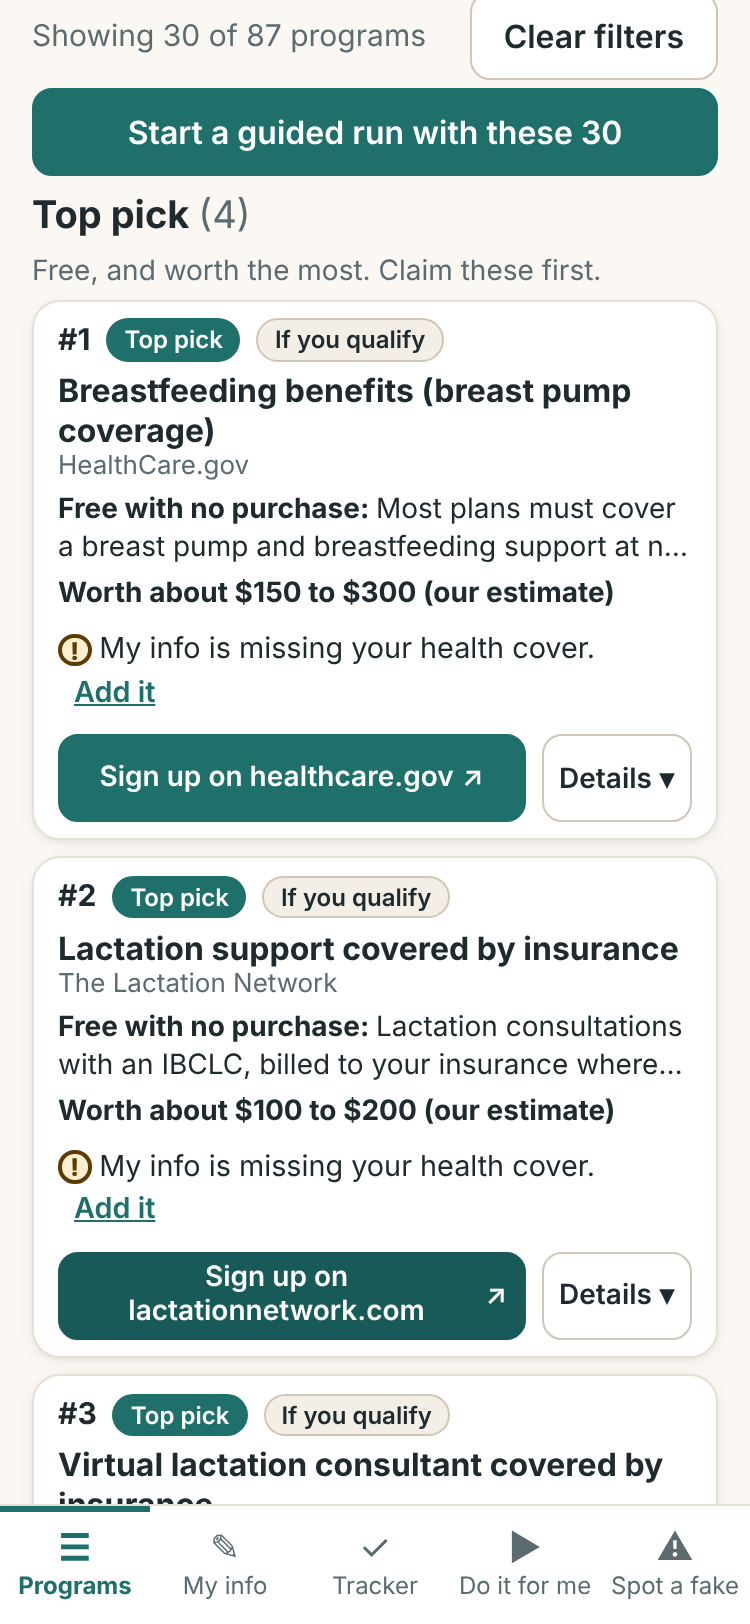
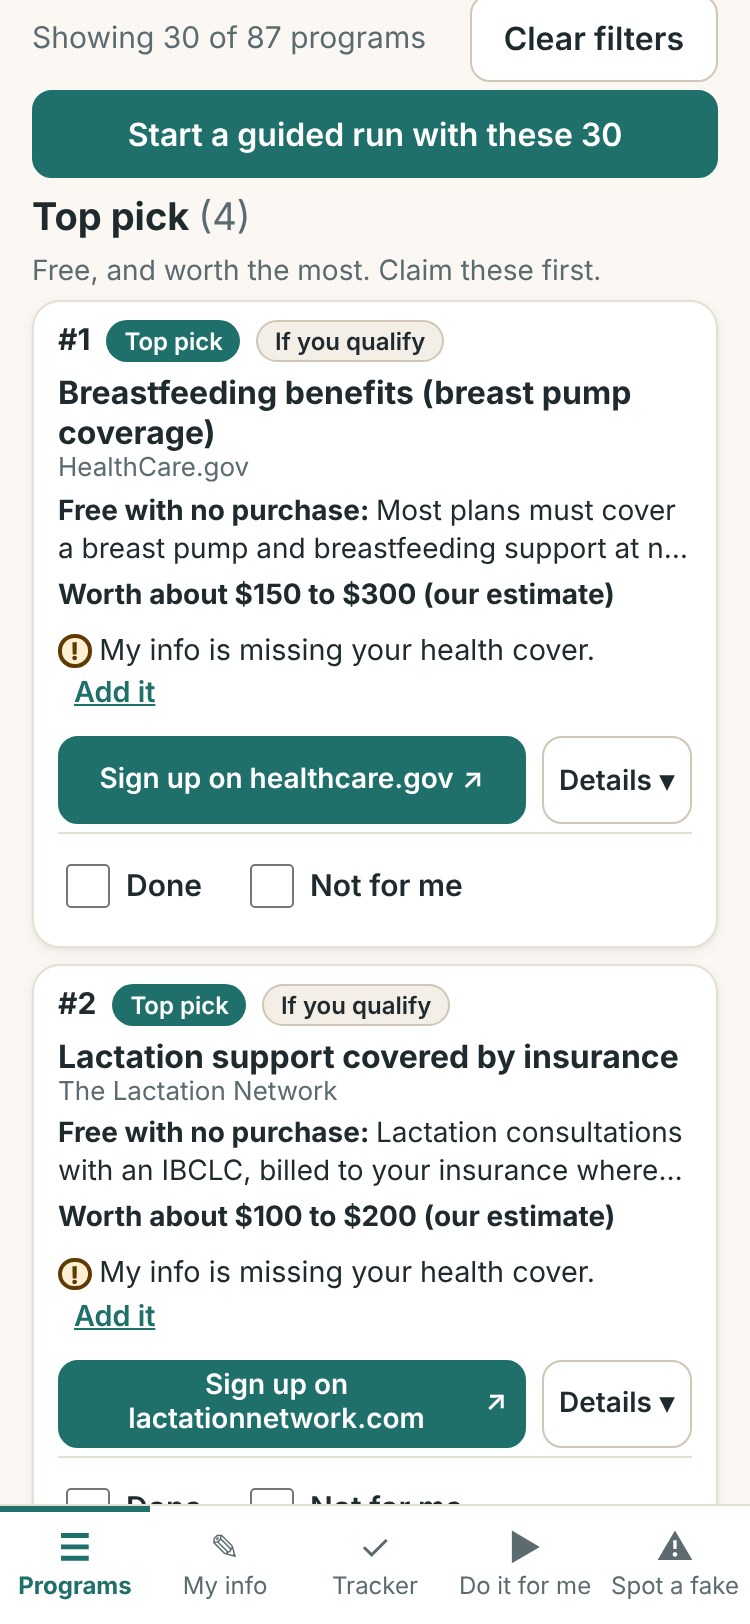
Phase J docs: new screenshots, tick boxes and hidden box in the README, progress log
- Retake six phone screenshots against the Phase J build and add
  hidden-and-ticks.png (the "Hidden from this list" box and a ticked card).
- README: describe the Done / Received / Not for me tick boxes, the hidden
  box, the storage notice and true undo; update the picture alt texts.
- PROGRESS.md: Phase J section, the Phase I browser-suite figure and the
  reload finding, and what still needs a person.
- ARCHITECTURE.md: the card tick hooks and the onChange payload.

Claude-Session: https://claude.ai/code/session_0129JtExaFfqidfghtzEj3gZ

diff --git a/README.md b/README.md
@@ -5,22 +5,23 @@ Baby Freebies Finder is a page you can use on a phone or computer to find legiti
 ## Screenshots
 
 <p align="center">
-  <img src="docs/screenshots/programs.png" alt="The Programs view on a phone: the Free stuff tab, the summary, and a box saying which My info answers are missing and how many programs depend on each" width="240">
-  <img src="docs/screenshots/missing-info.png" alt="Program cards on a phone, each saying which My info answer it is waiting for, with an Add it link" width="240">
+  <img src="docs/screenshots/programs.png" alt="The Programs view on a phone: the Free stuff tab, the summary, a box saying which My info answers are missing and how many programs depend on each, and the start of the Hidden from this list box" width="240">
+  <img src="docs/screenshots/missing-info.png" alt="Program cards on a phone under the Care and cover tab, each saying which My info answer it is waiting for, with an Add it link" width="240">
+  <img src="docs/screenshots/hidden-and-ticks.png" alt="The Programs view on a phone with the Hidden from this list box open, showing 61 hidden programs by reason with a Show button for each, and below it a card ticked Done with a note that it will be hidden from the list" width="240">
   <img src="docs/screenshots/my-info-jump.png" alt="My info on a phone after tapping an Add it link: the Health cover question is highlighted, says how many programs depend on it, and has a Back to Programs link" width="240">
   <img src="docs/screenshots/tracker.png" alt="The top of the Tracker on a phone: how many programs are done, what is still to claim, a note that My info is missing details, three closed sections, and tabs for To do, Signed up, Received, Not for me and All" width="240">
-  <img src="docs/screenshots/tracker-list.png" alt="The Tracker's To do tab on a phone: the Do now list with a Do these with help button and short rows, each saying which My info answer it is waiting for, with a Sign up link and tick boxes for Done and Not for me" width="240">
-  <img src="docs/screenshots/guided.png" alt="The Do it for me view on a phone, showing an open sign-up page button and a set of details to copy" width="240">
+  <img src="docs/screenshots/tracker-list.png" alt="The Tracker's To do tab on a phone: the Do now list with a Do these with help button and short rows, with a Sign up link and tick boxes for Done and Not for me, and a first row ticked Done that shows a Received box and a note saying where it is listed now" width="240">
+  <img src="docs/screenshots/guided.png" alt="The Do it for me view on a phone, showing an open sign-up page button, a set of details to copy, and the Done, Not for me and Problem buttons" width="240">
   <img src="docs/screenshots/tracker-email.png" alt="The Tracker's Email and calendar section opened on a phone, with buttons for the checklist email, Gmail filters and calendar reminders" width="240">
   <img src="docs/screenshots/my-info-situation.png" alt="The Your situation questions in My info on a phone, each unanswered one saying how many programs depend on it" width="240">
-  <img src="docs/screenshots/programs-dark.png" alt="The Programs view in dark mode on a phone" width="240">
+  <img src="docs/screenshots/programs-dark.png" alt="The Programs view in dark mode on a phone, with the first cards showing their Done and Not for me tick boxes" width="240">
 </p>
 
 ## What's inside
 
-- **Programs:** the full directory, ranked by what it is worth. The page opens on the **Free stuff** tab. Other tabs are **Money**, **Care and cover** and **All**. A summary shows how many truly free programs are open to everyone, about what they are worth together, and how many more are free if you qualify. Use **Show these** to see just the truly free ones. Search sits above the tabs. Under **Sort and filter** you can sort, filter by "What you get" or category, and tick "Truly free", "Open to everyone", "Email only", "Needs a registry" or "Fits my answers". Each card is short: it shows what arrives free, the estimated value, a badge for how sure it is, and the sign-up link. Press **Details** for the rest, such as the effort, the best time, the catches and the sources. Each card also has two tick boxes, **Done** and **Not for me**. Tick one and the card folds to a single line that says what happened and how to undo it, and the program is hidden the next time the list is drawn. A **Hidden from this list** box under the filters says how many programs are hidden and why: programs for other states, ones your answers in My info rule out, ones you marked done, ones you marked not for me, and other ways to get something you already signed up for. Each line has a **Show** button, and what you show is hidden again the next time you open the app. When a program depends on your state, health plan, income or job and My info does not have that answer yet, a box under the summary says which answers are missing and how many programs depend on each, and each such card says what is missing with an **Add it** link that opens My info at that field. See [How the ranking works](#how-the-ranking-works).
-- **My info:** your name, email, address, state and due date. It is stored only in your browser. Your state hides programs that are only for other states, and your due date builds the plan by due date. **Your situation (optional)** asks four quick questions: health cover, insurer, whether your household gets WIC, SNAP or similar help, and whether you or your partner have a paid job. Programs that cannot apply to your answers are hidden, and ones that fit get a badge. Each unanswered question says how many programs still to do depend on it. When you arrive from an **Add it** link, that field is highlighted and a link takes you straight back to the page you left. Your answers stay in your browser and are never used to fill in forms. Tip: use a dedicated inbox or a plus address like `yourname+baby@gmail.com`, so sign-up mail is easy to filter. At the end of My info, the **Fill forms on your phone** section (tap it to open) shows three ways to fill sign-up forms on an iPhone. See [On an iPhone](#on-an-iphone).
-- **Tracker:** your own to-do list. It leaves out programs for other states, ones your answers in My info rule out, and other ways to get something you already signed up for, and it says how many it left out (one button shows them all until you close the page). The top shows how many are done and about how much is still to claim. Tabs split the list into **To do**, **Signed up**, **Received**, **Not for me** and **All**. To do is split into **Do now**, **Later**, and a closed section for offers that need a purchase and long shots. **Do these with help** sends the Do now list to Do it for me. Each row is short: tick **Done** when you have signed up (a **Received** box then appears for when it arrives) or **Not for me** to set it aside, or press **Details** for what you get, the address to sign up with and your notes. A ticked row stays where it is until the list is next drawn, with a note saying where it is listed now. A to-do row also says which My info answer it is waiting for. **Email and calendar**, **Check Gmail for sign-up emails** and **Backup and restore** are closed sections under the summary; tap one to open it. You can download a JSON backup and restore it later. Inside Claude, checking Gmail is optional. See [Connect Gmail (inside Claude)](#connect-gmail-inside-claude).
+- **Programs:** the full directory, ranked by what it is worth. The page opens on the **Free stuff** tab. Other tabs are **Money**, **Care and cover** and **All**. A summary shows how many truly free programs are open to everyone, about what they are worth together, and how many more are free if you qualify. Use **Show these** to see just the truly free ones. Search sits above the tabs. Under **Sort and filter** you can sort, filter by "What you get" or category, and tick "Truly free", "Open to everyone", "Email only", "Needs a registry" or "Fits my answers". Each card is short: it shows what arrives free, the estimated value, a badge for how sure it is, and the sign-up link. Press **Details** for the rest, such as the effort, the best time, the catches and the sources. Each card also has tick boxes: **Done** and **Not for me**, plus **Received** once a program is done, for when it arrives. Tick one and the card folds down to its name, the tick boxes and a short note that says what happened and how to undo it, and the program is hidden the next time the list is drawn. Unticking a box you just ticked puts the program back exactly as it was. A **Hidden from this list** box under the filters says how many programs are hidden and why: programs for other states, ones your answers in My info rule out, ones you marked done, ones you marked not for me, and other ways to get something you already signed up for. Each line has a **Show** button, and what you show is hidden again the next time you open the app. The numbers in the box count every tab and ignore the search and filters. If a search or filter matches only hidden programs, the page says how many and why. When a program depends on your state, health plan, income or job and My info does not have that answer yet, a box under the summary says which answers are missing and how many programs depend on each, and each such card says what is missing with an **Add it** link that opens My info at that field. See [How the ranking works](#how-the-ranking-works).
+- **My info:** your name, email, address, state and due date. It is stored only in your browser. If the browser stops saving (its storage is full or blocked), a notice appears at the top of every page, and your newest changes then last only until you close the page. Your state hides programs that are only for other states, and your due date builds the plan by due date. **Your situation (optional)** asks four quick questions: health cover, insurer, whether your household gets WIC, SNAP or similar help, and whether you or your partner have a paid job. Programs that cannot apply to your answers are hidden, and ones that fit get a badge. Each unanswered question says how many programs still to do depend on it. When you arrive from an **Add it** link, that field is highlighted and a link takes you straight back to the page you left. Your answers stay in your browser and are never used to fill in forms. Tip: use a dedicated inbox or a plus address like `yourname+baby@gmail.com`, so sign-up mail is easy to filter. At the end of My info, the **Fill forms on your phone** section (tap it to open) shows three ways to fill sign-up forms on an iPhone. See [On an iPhone](#on-an-iphone).
+- **Tracker:** your own to-do list. It leaves out programs for other states, ones your answers in My info rule out, and other ways to get something you already signed up for, and it says how many it left out (one button shows them all until you close the page). The top shows how many are done and about how much is still to claim. Tabs split the list into **To do**, **Signed up**, **Received**, **Not for me** and **All**. To do is split into **Do now**, **Later**, and a closed section for offers that need a purchase and long shots. **Do these with help** sends the Do now list to Do it for me. Each row is short: tick **Done** when you have signed up (a **Received** box then appears for when it arrives) or **Not for me** to set it aside, or press **Details** for what you get, the address to sign up with and your notes. A ticked row stays where it is until the list is next drawn, with a note saying where it is listed now. Unticking a box you just ticked puts the row back exactly as it was, with its sign-up date. A to-do row also says which My info answer it is waiting for. **Email and calendar**, **Check Gmail for sign-up emails** and **Backup and restore** are closed sections under the summary; tap one to open it. You can download a JSON backup and restore it later. Inside Claude, checking Gmail is optional. See [Connect Gmail (inside Claude)](#connect-gmail-inside-claude).
 - **Do it for me:** pick the programs you want, then go through them one at a time in ranked order. The list has one row per offer, with other ways to get the same thing folded under it, and offers that need a purchase and long shots in a closed section at the end. By default it ticks the truly free programs that are open to everyone, one per offer, and none where you already signed up. The list leaves out what the Programs page hides (programs for other states, ones your answers rule out, ones you marked done or not for me, and other ways to get something you already signed up for), and a line under it says how many were left out. A row says which My info answer it is waiting for. Each step opens the official sign-up page and gives you Copy buttons for your details. You press the buttons yourself. For each program you press **Done**, **Not for me** or **Problem**.
 - **Spot a fake:** short tips for telling real freebie offers from scams.
 

diff --git a/ARCHITECTURE.md b/ARCHITECTURE.md
@@ -410,7 +410,7 @@ Why: the Programs page was about 61,000 px tall, the top pick was a tax credit, 
 ### DOM hooks for browser tests
 - Tabs: `.kind-tabs` (role group), `button.kind-tab[data-kind="stuff|money|care|all"]` with `aria-pressed`, text "Label (n)" (`.kt-label`, `.kt-count`).
 - Filters: `details.dir-filters` (its `summary` text "Sort and filter" or "Sort and filter (n on)"), search input `input[type=search]` outside it, chip `label[data-chip="fitsMine"]`, `.chip-hint`.
-- Cards: `article.card[data-program-id]`, `.is-open` when open, `button.card-toggle[aria-expanded][aria-controls]`, `.card-more#more-<id>` (`hidden` when closed), `.card-status-badge` (hidden for To do), `.badge-certainty` with `.tag-fit`, `.tag-qualify` or `.tag-certainty`, `.tag-nomatch`, `.free-line`, `.value-line`, `.value-basis` (only in `.card-more`), `.card-foot a.btn-primary`, `select[data-program-id]` (inside `.card-more`).
+- Cards: `article.card[data-program-id]`, `.is-open` when open, `button.card-toggle[aria-expanded][aria-controls]`, `.card-more#more-<id>` (`hidden` when closed), `.card-status-badge` (hidden for To do), `.badge-certainty` with `.tag-fit`, `.tag-qualify` or `.tag-certainty`, `.tag-nomatch`, `.free-line`, `.value-line`, `.value-basis` (only in `.card-more`), `.card-foot a.btn-primary`, `.card-ticks` (the tick boxes `#tick-done-<id>`, `#tick-rcv-<id>`, `#tick-nfm-<id>` and `p.tick-note`; the card has `.is-ticked` while folded: the details are hidden and the status badge, the name, the boxes and the note stay).
 - Summary: `.dir-summary`, `.sum-main`, `.sum-more`, `.sum-money`, `.sum-situation`, `.show-these`, `.when-buttons button`.
 - Lists: `details.dir-hidden` (the Phase J hidden box; it replaced `.dir-fit` and `.dir-state`, which no longer exist), `.result-count`, `.start-run`, `.dir-group`, `.same-group`.
 - My info: `.fx-situation`, selects `#info-cover`, `#info-insurer`, `#info-lowIncome`, `#info-job` (field wrappers carry `data-situation`).
@@ -486,7 +486,7 @@ Request: "Programs that do not qualify or are for other states should be default
 ### Ticks
 - `tickState(status)` -> `{done, received, notForMe}` (`done` for `signed-up` and `received`; `received` for `received`; `notForMe` for `skipped`; unknown = `todo`).
 - `statusAfterTick(status, box, checked)`: `done` on -> `signed-up` (`received` stays); `done` off -> `todo` only from `signed-up` or `received`; `received` on -> `received`; `received` off -> `signed-up` only from `received`; `notForMe` on -> `skipped`; `notForMe` off -> `todo` only from `skipped`; any other box or case leaves the status as it is.
-- `BFF.ticks` (`src/js/ticks.js`, after `missing.js`; touches `BFF.tracker` only inside handlers). `build(p, {prefix, status, received, around, onChange})` -> `{el, sync(status)}`. `el` is `div.ticks[role=group][aria-label="Mark <name>"][data-program-id]` with `label.tick > input[type=checkbox]#<prefix>-done-<id>[data-tick=done] + span.tick-text "Done" + span.visually-hidden ": <name>"`, optionally `#<prefix>-rcv-<id>[data-tick=received]` "Received", then `#<prefix>-nfm-<id>[data-tick=notForMe]` "Not for me". A change goes through `BFF.ticks.apply(id, box, checked, around)` (no DOM; `-> {ok, status, prev, undo}`). It reads the status and entry, asks `BFF.logic.tickChange(status, box, checked, last)`, saves with `BFF.tracker.setStatus(id, status, {signedUpAt})` (inside `around(save)` when given; never `restoreEntry`, so a note edited in between survives), and keeps the change even when the save fails (the app-wide rule: the change holds for this visit and the person is told it will not last); `onChange` then gets `ok: false`. `opts.around(run)` is optional: when given, the save runs inside it (the Tracker sets `view.localChange` there). With `opts.received` the Received box is in the DOM (order Done, Received, Not for me) but its label has `hidden` unless the status is `signed-up` or `received`; `sync(status)` sets that. Without it there is no Received box. After the save it sets every box from `BFF.tracker.getStatus` and calls `onChange({ok, status, prev, box, checked, input})`. The whole handler runs inside `keepPlace`.
+- `BFF.ticks` (`src/js/ticks.js`, after `missing.js`; touches `BFF.tracker` only inside handlers). `build(p, {prefix, status, received, around, onChange})` -> `{el, sync(status)}`. `el` is `div.ticks[role=group][aria-label="Mark <name>"][data-program-id]` with `label.tick > input[type=checkbox]#<prefix>-done-<id>[data-tick=done] + span.tick-text "Done" + span.visually-hidden ": <name>"`, optionally `#<prefix>-rcv-<id>[data-tick=received]` "Received", then `#<prefix>-nfm-<id>[data-tick=notForMe]` "Not for me". A change goes through `BFF.ticks.apply(id, box, checked, around)` (no DOM; `-> {ok, status, prev, undo}`). It reads the status and entry, asks `BFF.logic.tickChange(status, box, checked, last)`, saves with `BFF.tracker.setStatus(id, status, {signedUpAt})` (inside `around(save)` when given; never `restoreEntry`, so a note edited in between survives), and keeps the change even when the save fails (the app-wide rule: the change holds for this visit and the person is told it will not last); `onChange` then gets `ok: false`. `opts.around(run)` is optional: when given, the save runs inside it (the Tracker sets `view.localChange` there). With `opts.received` the Received box is in the DOM (order Done, Received, Not for me) but its label has `hidden` unless the status is `signed-up` or `received`; `sync(status)` sets that. Without it there is no Received box. After the save it sets every box from `BFF.tracker.getStatus` and calls `onChange({ok, status, prev, box, checked, undo, input})`. The whole handler runs inside `keepPlace`.
 - `tickChange(status, box, checked, last)` -> `{status, undo, signedUpAt}`. `last` is what the last tick on this program did in this visit, `{box, checked, from, to, signedUpAt}`, or null. When `last.to === status`, the same box is flipped the other way: it is an undo and the result is `last.from`. Otherwise the result is `statusAfterTick`. `signedUpAt` is the date to keep: `last.signedUpAt` only when `last.to === status`, `last.from` and the result are `signed-up` or `received`; else `''`.
 - The undo memory is a module-level map in `ticks.js` by program id, shared by Programs and Tracker. It is kept after every tick that changed the status (also after an undo, so the opposite tick always goes back) and forgotten when `bff:tracker-changed` arrives with `detail.id === null` (import, clear). Nothing is stored; after a reload the plain `statusAfterTick` rule applies. So Received (date X) -> Not for me -> untick is Received with X; Done (X) -> Not for me -> tick Done is Done with X.
 - `BFF.tracker.setStatus(id, status, opts)`: a valid `opts.signedUpAt` (string, at most 40 characters, parses as a date) is kept when the new status is `signed-up` or `received`. Otherwise `signed-up` sets the date to now only when the program was not already signed up and is not coming back from `received` with a date; the existing date is kept in every other case.

diff --git a/PROGRESS.md b/PROGRESS.md
@@ -127,10 +127,24 @@ Why: the Tracker listed all 142 programs in file order on a page about 54,000px 
 - Privacy: the state and the situation answers are still read only to hide and badge programs, and now also to say what is missing. They never go into the fill script, bookmark, phone view, autofill helper, guided copy or email (`CLAUDE.md` says so).
 - Size at 390px wide with an empty My info: Tracker about 8,600px (was about 54,100px) with the first row at 791px (was 1,772px); Do it for me about 6,600px (was about 13,100px); My info about 2,800px (was about 7,000px); Programs about 10,700px (was about 10,300px; the missing-info box adds 200px, and the first card starts at 945px, was 1,012px). At 320px wide: Tracker about 11,900px (was about 62,100px), Do it for me about 7,800px (was about 14,800px), My info about 3,000px (was about 8,200px).
 - Tests: 264 unit tests pass.
+- Browser suite and the reload question: the full run against this phase's build is 3728 checks, 0 failed. Saved data sometimes seemed gone after a reload in the test browser. Measured on a bare page with no app code: headless Chromium sometimes empties a file: page's whole localStorage, and a test init script that touches localStorage makes that likely (about one load in five). Served from http on 127.0.0.1, no loss was seen in 2,900 tries. https, the Claude viewer and phone browsers were not measured. The suite now seeds storage without init scripts and checks storage around every reload. Details are in `tests/e2e/FINDINGS.md`.
 - Known small things: the first sign-up from a Tracker row moves the rows down 43px (the claimed-value line appears); with no state, the Tracker notice counts programs limited to a state that are not in its list (the number is the same on every page); removing a highlight in My info moves the field up 14px; at 320px wide the five Tracker tabs wrap onto two rows.
-- Helpers this phase: 4 on `sonnet` (Tracker build, guided and Programs build, fix round, browser suite) and 2 on `haiku` (docs and screenshots, then a retake of two pictures). Expected environment variables other than `CLAUDE_CODE_MAX_SUBAGENT_SPAWN_DEPTH` are still missing.
+- Helpers this phase: 5 on `sonnet` (Tracker build, guided and Programs build, fix round, browser suite, the reload investigation) and 2 on `haiku` (docs and screenshots, then a retake of two pictures). Expected environment variables other than `CLAUDE_CODE_MAX_SUBAGENT_SPAWN_DEPTH` are still missing.
+
+## Phase J, hidden by default and tick boxes (done, 2026-11-11)
+Why: programs for other states and ones the My info answers rule out could be shown once and then stayed shown on every later visit, a finished program never left the Programs list, and the only way to mark a program was a dropdown inside Details.
+- One hide rule on every page: `logic.hideReason` gives the reason a program is hidden (marked done, marked not for me, for another state, ruled out by the answers, or another way to get something already signed up for). Programs, the Tracker's to-do list and Do it for me all use it. Programs whose fit is unknown stay listed with their missing-info line.
+- Hidden on every visit: the saved "show them" choices are gone. Programs has one "Hidden from this list" box that says how many are hidden and why, with a Show button per reason. What is shown lasts until the page is closed. With a sample Texas profile and private cover, 61 of the 142 programs are hidden (55 for other states, 6 ruled out) and 81 are listed.
+- Tick boxes: every Programs card and Tracker row has Done and Not for me, and Received once it is done. A ticked card folds down to its name, the tick boxes and a note that says what happened and how to undo it, and it leaves the list at the next redraw. "Skipped" is now called "Not for me" everywhere (the stored code is still `skipped`). The "My status" dropdown on cards and the status dropdown on Tracker rows are gone.
+- Do it for me: the list leaves out what Programs hides and says how many. The run's buttons are Done, Not for me and Problem. A program handed over on purpose stays selected until its status changes.
+- Failed saves: a tick the browser could not save still counts until the page is closed, the page says so next to the tick, and a notice appears at the top of every page when the browser stops saving during a visit.
+- Review and fixes: an independent review found nothing that had to be fixed before release and 13 smaller items. Fixed: unticking a box that was just ticked puts the program back exactly as it was, with its sign-up date (`logic.tickChange` and `BFF.ticks.apply`, remembered for the visit only); cards and rows share one tick code path; a search or filter that matches only hidden programs says how many and why; the Tracker and Do it for me go through `hideReason`; the due-date counts cover only programs still to do.
+- Tests: 285 unit tests pass (264 before this phase). `tests/ticks.test.mjs` runs the real store, tracker and tick code together.
+- Known small things: "Not for me" during a Do it for me run really marks the program, so it also leaves Programs and the Gmail filter download (the run has an Undo button); the number in the "Hidden from this list" box updates at the next redraw, not at the tick; the checklist email builds its fallback list in two places that differ (the Tracker's list in one, every program not marked "Not for me" in the other).
+- Helpers this phase: 4 on `sonnet` (Programs build, Tracker and Do it for me build with the fix round, code review, browser suite) and 2 on `haiku` (README text, then screenshots and docs). Expected environment variables other than `CLAUDE_CODE_MAX_SUBAGENT_SPAWN_DEPTH` are still missing.
 
 ## Not tested (needs a person)
+- Phase J: the tick boxes, the "Hidden from this list" box and the storage notice on a real phone and with a screen reader (only the automated browser checks ran).
 - Phase I: the new Tracker, the missing-info lines and the jump to a field in My info on a real phone and with a screen reader (only the automated browser checks ran).
 - Phase G: the entries and value figures against their official pages (the network was Limited) and the due-date plan and state rule on a real phone. (After round 5 the due-date buttons were looked at once at 768 and 1280 pixels wide: one inline row, no sideways scroll. The browser suite itself runs at phone width.)
 - A real iPhone: Safari AutoFill, the Shortcut, the bookmark, Home Screen install.
